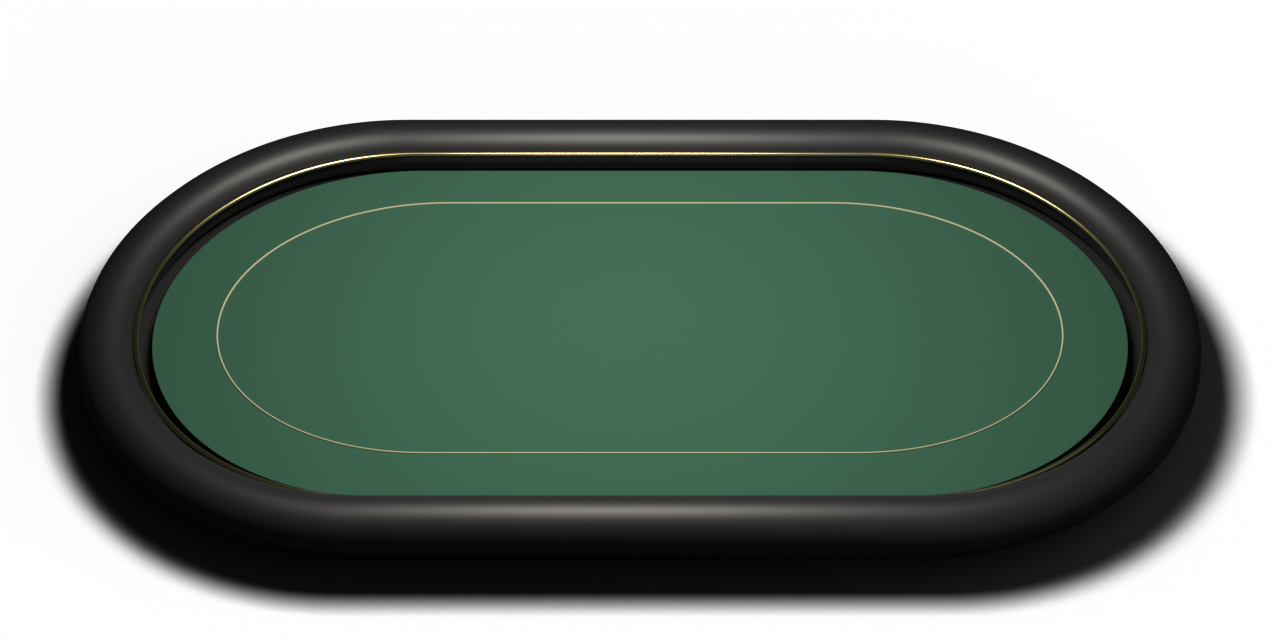
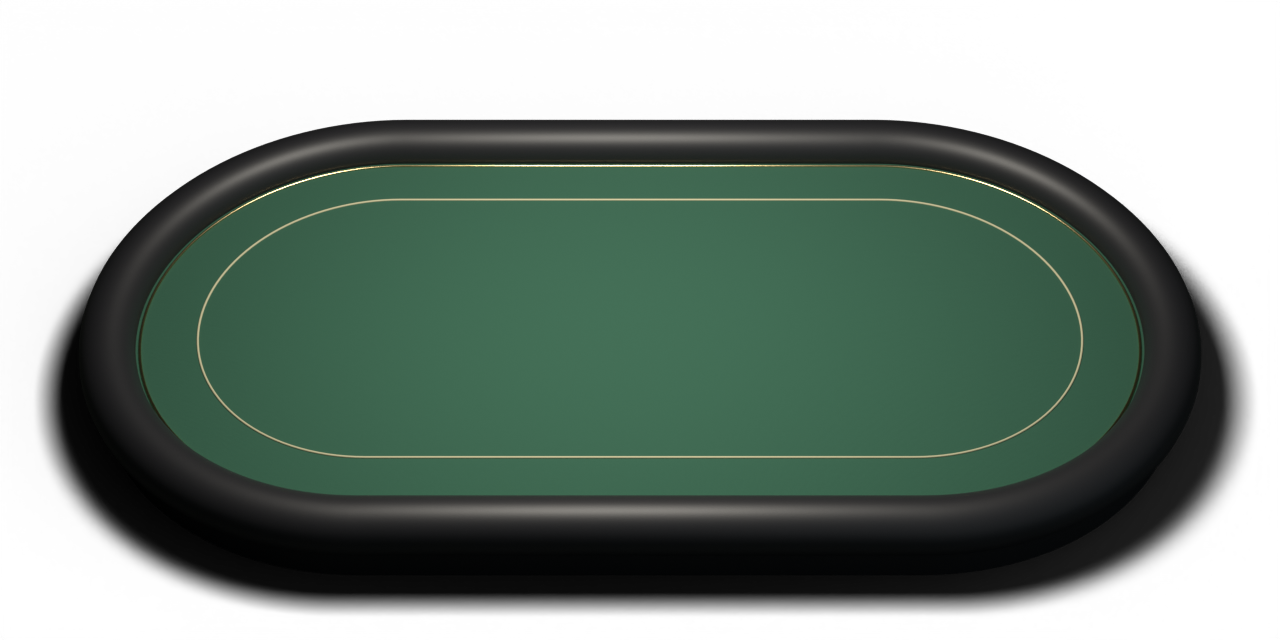
fix(table): the cloth up to the cushion, and a brass line that shows

diff --git a/lib/table-seating.ts b/lib/table-seating.ts
@@ -18,7 +18,7 @@ export type SeatPoint = { left: number; top: number }
  * A wide oval is very nearly circular in percentage terms. Seats level with
  * the middle are eased in off the rail so a plate does not hang over the wood.
  */
-const LANDSCAPE = { rx: 47, ry: 38.3, cy: 54 } as const
+const LANDSCAPE = { rx: 47.5, ry: 38.8, cy: 54.3 } as const
 
 /**
  * How square the ring is. Two is an honest ellipse; higher pushes the curve out

diff --git a/scripts/render-table-3d.py b/scripts/render-table-3d.py
@@ -52,12 +52,18 @@ def clear():
     bpy.ops.wm.read_factory_settings(use_empty=True)
 
 
-def stadium(name, z=0.0, fill=True, bevel=None, extrude=0.0):
+def stadium(name, z=0.0, fill=True, bevel=None, extrude=0.0, inset=0.0):
     """A curve round the table's outline: two straight runs and two half-ends.
 
     Everything the table is made of comes from this one shape — the cloth is it
     filled, the cushion is it swept with a circle, the body is it extruded down
     — so nothing can drift out of line with anything else.
+
+    `inset` pulls the outline in by that many metres all the way round, which is
+    how the cloth stops short of the cushion. Scaling it instead pulls it in
+    further along one axis than the other, and the phone's table — the same
+    model turned on its end — then had a crescent of shadow between felt and
+    wood at its ends.
     """
     curve = bpy.data.curves.new(name, 'CURVE')
     curve.dimensions = '2D' if fill else '3D'
@@ -74,12 +80,13 @@ def stadium(name, z=0.0, fill=True, bevel=None, extrude=0.0):
     spline = curve.splines.new('POLY')
     points = []
     steps = 64
+    radius = END_RADIUS - inset
     for i in range(steps + 1):  # the right-hand end, from bottom to top
         angle = -math.pi / 2 + math.pi * i / steps
-        points.append((HALF_STRAIGHT + END_RADIUS * math.cos(angle), END_RADIUS * math.sin(angle)))
+        points.append((HALF_STRAIGHT + radius * math.cos(angle), radius * math.sin(angle)))
     for i in range(steps + 1):  # and the left-hand one, back again
         angle = math.pi / 2 + math.pi * i / steps
-        points.append((-HALF_STRAIGHT + END_RADIUS * math.cos(angle), END_RADIUS * math.sin(angle)))
+        points.append((-HALF_STRAIGHT + radius * math.cos(angle), radius * math.sin(angle)))
 
     spline.points.add(len(points) - 1)
     for point, (x, y) in zip(spline.points, points):
@@ -152,8 +159,9 @@ def material(name, base, roughness, metallic=0.0, sheen=0.0, bump=None, cloth=No
 
 def build():
     """The table: cloth, cushion, body, and the metal line set into the rail."""
-    cloth = stadium('cloth', z=0.0)
-    cloth.scale = (0.92, 0.86, 1.0)  # the felt stops short of the cushion
+    # Up to the cushion's inner lip, and no further: any gap here is a crescent
+    # of shadow between the felt and the wood.
+    cloth = stadium('cloth', z=0.0, inset=RAIL_RADIUS * 0.92)
     cloth.data.materials.append(
         # The room's racing green, and a weave you can see at the size this is
         # drawn — the two things that were most obviously missing.
@@ -168,16 +176,13 @@ def build():
         hide.inputs['Coat Roughness'].default_value = 0.4
     rail.data.materials.append(leather)
 
-    body = stadium('body', z=-SKIRT, extrude=SKIRT / 2)
-    body.scale = (0.99, 0.99, 1.0)
+    body = stadium('body', z=-SKIRT, extrude=SKIRT / 2, inset=-RAIL_RADIUS * 0.55)
     body.data.materials.append(material('body', (0.014, 0.014, 0.016), 0.6))
 
-    line = stadium('line', z=0.0008, fill=False, bevel=0.0022)
-    line.scale = (0.8, 0.66, 1.0)
+    line = stadium('line', z=0.0008, fill=False, bevel=0.0022, inset=RAIL_RADIUS * 3.2)
     line.data.materials.append(material('line', (0.6, 0.56, 0.36), 0.8))
 
-    inlay = stadium('inlay', z=0.027, fill=False, bevel=0.005)
-    inlay.scale = (0.945, 0.905, 1.0)
+    inlay = stadium('inlay', z=0.0011, fill=False, bevel=0.0028, inset=RAIL_RADIUS * 1.12)
     inlay.data.materials.append(material('brass', (0.78, 0.62, 0.32), 0.22, metallic=1.0))
 
     bpy.ops.mesh.primitive_plane_add(size=12, location=(0, 0, -SKIRT - 0.02))
